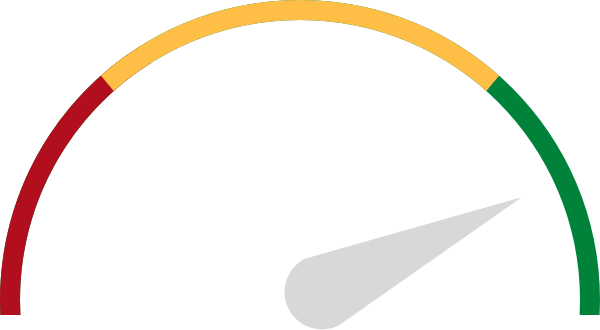
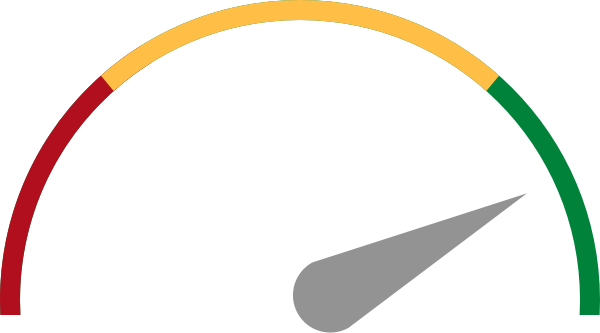
- extra line between results and continue button - reuploaded gauge images with improved contrast

diff --git a/views/prototype/photo/check-and-submit-passed-photo.html b/views/prototype/photo/check-and-submit-passed-photo.html
@@ -88,6 +88,7 @@
     <!-- <hr style="margin-left: 15px; margin-right: 15px; min-width: 1px;"> -->
 </div>
 <br>
+<br>
 {{#input-submit}}{{/input-submit}}
 
 <div class="panel panel-border-wide">

diff --git a/views/prototype/photo/check-and-submit-photo.html b/views/prototype/photo/check-and-submit-photo.html
@@ -88,6 +88,7 @@
     <!-- <hr style="margin-left: 15px; margin-right: 15px; min-width: 1px;"> -->
 </div>
 <br>
+<br>
 {{#input-submit}}{{/input-submit}}
 
 <div class="panel panel-border-wide">
